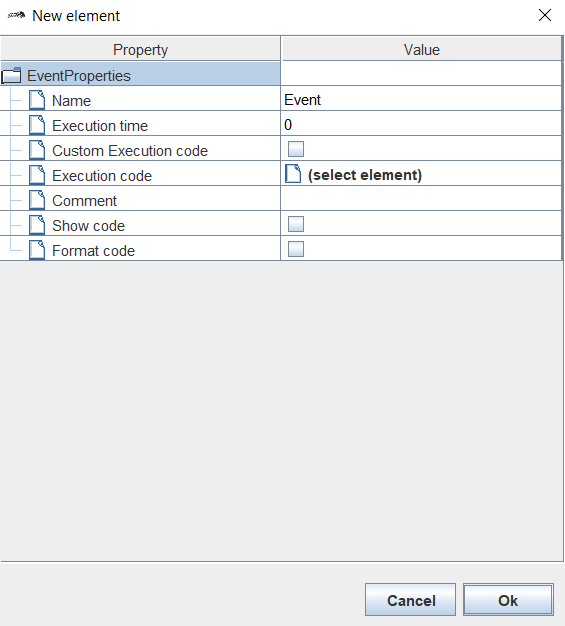
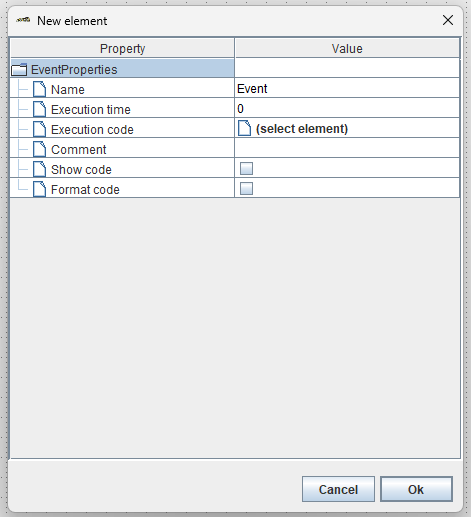
Исправление английской части

Changed region(s): [[0.0, 0.0, 1.0, 1.0]]

diff --git a/source/PhysiCell/PhysiCell_cell_properties/PhysiCell_cell_properties_Cycle.rst b/source/PhysiCell/PhysiCell_cell_properties/PhysiCell_cell_properties_Cycle.rst
@@ -65,7 +65,7 @@
 Название жизненного цикла клетки (Name)
 ---------------------------------------
 
-При нажатии слева от кнопки |icon_option| **Name** раскрывается список, в котором можно выбрать тип жизненного цикла клетки:
+При нажатии справа от кнопки |icon_option| **Name** раскрывается список, в котором можно выбрать тип жизненного цикла клетки:
 
 .. figure:: /images/Physicell/Physicell_cell_properties/Cycle_name.png
    :width: 100%
@@ -75,7 +75,7 @@
 :raw-html:`<br>`
 
 - **Ki67 (basic)**: жизненный цикл, состоящий из двух фаз - :raw-html:`«<u>Ki67-</u>» и «<u>Ki67+</u>»`,
-- **Ki67 (advanced**: жизненный цикл, состоящий из трех фаз - :raw-html:`«<u>Ki67-</u>», «<u>Ki67+ (premitotic)</u>» и «<u>Ki67+ (postmitotic)</u>»`,
+- **Ki67 (advanced)**: жизненный цикл, состоящий из трех фаз - :raw-html:`«<u>Ki67-</u>», «<u>Ki67+ (premitotic)</u>» и «<u>Ki67+ (postmitotic)</u>»`,
 - **Live**: простейший жизненный цикл, состоящий всего из одной фазы с условным названием :raw-html:`«<u>Live</u>»`,
 - **Flow cytometry model (basic)**: жизненный цикл, состоящий из трех фаз - :raw-html:`«<u>G0/G1</u>», «<u>S</u>» и «<u>G2/M</u>»`,
 - **Flow cytometry model (separated)**: жизненный цикл, состоящий из четырех фаз - :raw-html:`«<u>G0/G1</u>», «<u>S</u>», «<u>G2</u>» и «<u>M</u>»`,
@@ -126,7 +126,7 @@
 
 :raw-html:`<br>`
 
-- |icon_option| **Rate**: скорость перехода между соответствующими фазами жизненного цикла клетки (можно изменять, нажав ЛКМ на число слева и вписав собственное значение),
+- |icon_option| **Rate**: скорость перехода между соответствующими фазами жизненного цикла клетки (можно изменять, нажав ЛКМ на число справа и вписав собственное значение),
 - |icon_option| **Fixed**: отметьте ☑, если хотите, чтобы время перехода между соответствующими фазами жизненного цикла клетки было зафиксировано.
 
 .. note::

diff --git a/source/PhysiCell/PhysiCell_cell_properties/PhysiCell_cell_properties_Division.rst b/source/PhysiCell/PhysiCell_cell_properties/PhysiCell_cell_properties_Division.rst
@@ -6,6 +6,17 @@
 .. role:: raw-html(raw)
    :format: html
 
+.. raw:: html
+
+   <style>
+   pre {
+      white-space: pre-wrap !important;       /* Сохраняет пробелы, но разрешает перенос */
+      word-wrap: break-word !important;       /* Переносит длинные слова */
+      overflow-wrap: break-word !important;   /* Альтернатива для совместимости */
+      hyphens: auto !important;               /* Перенос с тире */
+   }
+   </style>
+
 .. |icon_option| image:: /images/icons/option.png
 .. |icon_add_new| image:: /images/icons/Physicell/add_new.png
 
@@ -78,8 +89,6 @@
        ├── Cell type: Фибробласт
        └── Probability: 0.2
 
-   Такая настройка означает, что при делении клетки выбранного нами типа может образоваться
-   либо нейрон (с вероятностью 30%), либо эритроцит (с вероятностью 50%), либо фибробласт
-   (с вероятностью 20%).
+   Такая настройка означает, что при делении клетки выбранного нами типа может образоваться либо нейрон (с вероятностью 30%), либо эритроцит (с вероятностью 50%), либо фибробласт (с вероятностью 20%).
 
    Сумма всех вероятностей равна 1 (0.3 + 0.5 + 0.2)

diff --git a/source/PhysiCell/PhysiCell_development/PhysiCell_development_Interaction.rst b/source/PhysiCell/PhysiCell_development/PhysiCell_development_Interaction.rst
@@ -29,6 +29,12 @@
 :raw-html:`<br>`
 Чтобы настроить параметры созданного взаимодействия, нужно нажать ПКМ на стрелку на диаграмме, обозначающую данное взаимодействие, и в раскрывающемся списке нажать ЛКМ на кнопку **Edit**.
 
+.. figure:: /images/Physicell/Physicell_model_development/Edit_interaction.png
+   :width: 80%
+   :alt: Edit_interaction
+   :align: center
+
+:raw-html:`<br>`
 После этого в появившемся окне необходимо задать параметры изменяемого взаимодействия:
 
 .. figure:: /images/Physicell/Physicell_model_development/Interaction_parameters.png

diff --git a/source/PhysiCell/PhysiCell_development/PhysiCell_development_Transformation.rst b/source/PhysiCell/PhysiCell_development/PhysiCell_development_Transformation.rst
@@ -29,6 +29,12 @@
 :raw-html:`<br>`
 Чтобы настроить параметры созданной трансформации, нужно нажать ПКМ на стрелку на диаграмме, обозначающую данную трансформацию, и в раскрывающемся списке нажать ЛКМ на кнопку **Edit**.
 
+.. figure:: /images/Physicell/Physicell_model_development/Edit_transformation.png
+   :width: 80%
+   :alt: Edit_transformation
+   :align: center
+
+:raw-html:`<br>`
 После этого в появившемся окне необходимо задать параметры изменяемой трансформации:
 
 .. figure:: /images/Physicell/Physicell_model_development/Transformation_parameters.png

diff --git a/source/PhysiCell/PhysiCell_development/PhysiCell_development_Chemotaxis.rst b/source/PhysiCell/PhysiCell_development/PhysiCell_development_Chemotaxis.rst
@@ -30,6 +30,12 @@
 :raw-html:`<br>`
 Чтобы редактировать параметры созданного хемотаксиса, нужно нажать ПКМ на стрелку на диаграмме, обозначающую данный хемотаксис, и в раскрывающемся списке нажать ЛКМ на кнопку **Edit**.
 
+.. figure:: /images/Physicell/Physicell_model_development/Edit_chemotaxis.png
+   :width: 80%
+   :alt: Edit_chemotaxis
+   :align: center
+
+:raw-html:`<br>`
 После этого в появившемся окне необходимо задать параметры изменяемого хемотаксиса:
 
 .. figure:: /images/Physicell/Physicell_model_development/Chemotaxis_parameters.png

diff --git a/source/PhysiCell/PhysiCell_development/PhysiCell_development_Event.rst b/source/PhysiCell/PhysiCell_development/PhysiCell_development_Event.rst
@@ -32,7 +32,6 @@
 
 - **Name**: название события,
 - **Execution time**: модельное время, при достижении которого срабатывает событие,
-- **Custom Execution code**: выберите ☑, чтобы задать путь до Java-кода, который выполнится при срабатывании события,
 - **Execution code**: путь до Java-кода, который выполняется при срабатывании события,
 - **Comment**: комментарий,
 - **Show code**: выберите ☑, если хотите полностью показывать код на диаграмме модели,

diff --git a/source/PhysiCell/PhysiCell_development/PhysiCell_development_Secretion.rst b/source/PhysiCell/PhysiCell_development/PhysiCell_development_Secretion.rst
@@ -29,9 +29,9 @@
 :raw-html:`<br>`
 Чтобы настроить параметры созданной секреции/потребления, нужно нажать ПКМ на стрелку на диаграмме, обозначающую данную секрецию/потребление, и в раскрывающемся списке нажать ЛКМ на кнопку **Edit**.
 
-.. figure:: /images/Physicell/Physicell_model_development/Edit_reaction.png
+.. figure:: /images/Physicell/Physicell_model_development/Edit_secretion.png
    :width: 80%
-   :alt: Edit_reaction
+   :alt: Edit_secretion
    :align: center
 
 :raw-html:`<br>`

diff --git a/source/PhysiCell/PhysiCell_start/PhysiCell_start_Model.rst b/source/PhysiCell/PhysiCell_start/PhysiCell_start_Model.rst
@@ -35,7 +35,7 @@
 :raw-html:`<br>`
 
 - **Diagram name**: название модели,
-- **Diagram type**: тип модели (:raw-html:`<span style="color: red;">нужно выбрать PhysicellDiagramType</span>`),
+- **Diagram type**: тип модели (:raw-html:`<span style="color: red;">нужно выбрать Physicell model</span>`),
 - **Diagram type description**: описание выбранного типа диаграммы.
 
 После настройки диаграммы нажмите **Ok**.
